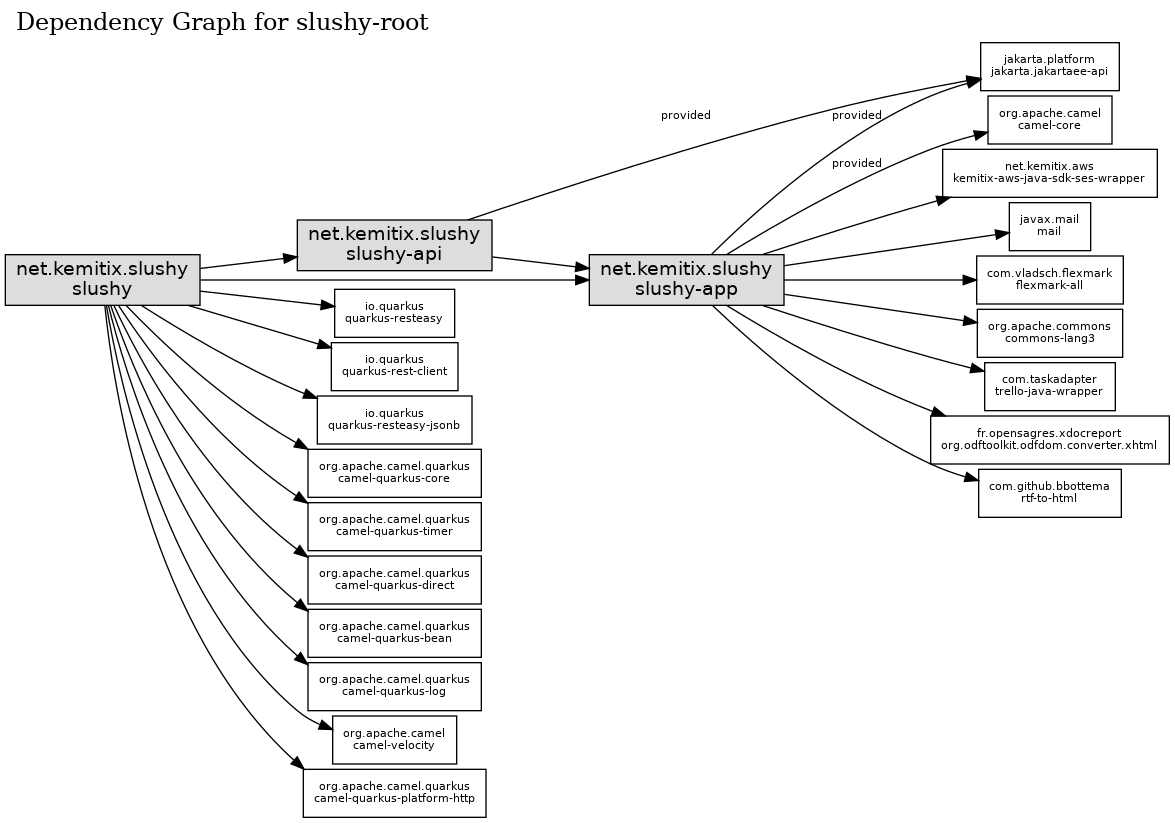
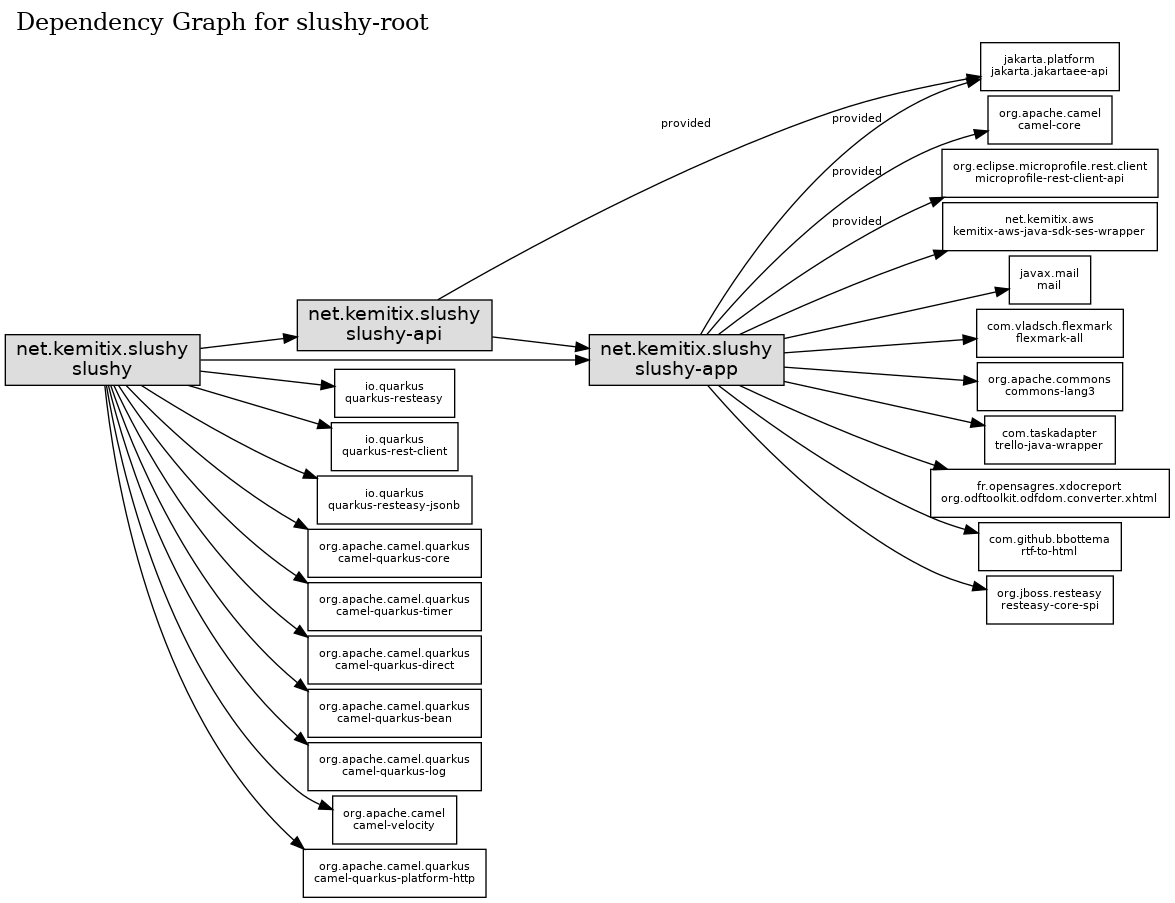
trello.webhook: register webhook with trello on startup

diff --git a/slushy-app/src/main/java/net/kemitix/slushy/app/trello/webhook/RegisterWebhook.java b/slushy-app/src/main/java/net/kemitix/slushy/app/trello/webhook/RegisterWebhook.java
@@ -1,0 +1,76 @@
+package net.kemitix.slushy.app.trello.webhook;
+
+import lombok.extern.java.Log;
+import net.kemitix.slushy.app.SlushyConfig;
+import net.kemitix.slushy.app.trello.TrelloBoard;
+import org.eclipse.microprofile.rest.client.inject.RestClient;
+
+import javax.enterprise.context.ApplicationScoped;
+import javax.inject.Inject;
+import javax.ws.rs.WebApplicationException;
+import javax.ws.rs.core.Response;
+
+@Log
+@ApplicationScoped
+public class RegisterWebhook {
+
+    private final SlushyConfig slushyConfig;
+    private final TrelloBoard trelloBoard;
+    @Inject
+    @RestClient
+    private TrelloWebhookService trelloWebhookService;
+
+    @Inject
+    public RegisterWebhook(
+            SlushyConfig slushyConfig,
+            TrelloBoard trelloBoard
+    ) {
+        this.slushyConfig = slushyConfig;
+        this.trelloBoard = trelloBoard;
+    }
+
+    //$.post("https://api.trello.com/1/tokens/{APIToken}/webhooks/?key={APIKey}", {
+    //  description: "My first webhook",
+    //  callbackURL: "http://www.mywebsite.com/trelloCallback",
+    //  idModel: "4d5ea62fd76aa1136000000c",
+    //});
+
+    //TODO https://quarkus.io/guides/rest-client
+    public void register() {
+        log.info("init()");
+
+        String apiKey = slushyConfig.getTrelloKey();
+        String apiToken = slushyConfig.getTrelloSecret();
+        String boardId = trelloBoard.getBoardId();
+        String callbackUrl = String.format(
+                "%s?source=trello;board=%s",
+                slushyConfig.getWebhook(),
+                boardId);
+
+        String description = "Slushy Webhook";
+        TrelloCallback callback = TrelloCallback.builder()
+                .description(description)
+                .callbackURL(callbackUrl)
+                .idModel(boardId)
+                .build();
+        log.info(callback.toString());
+        try {
+            Response response = trelloWebhookService.registerWebhook(apiToken, apiKey, callback);
+            log.info(String.format(
+                    "Webhook Registered: (%d) %s - %s",
+                    response.getStatus(),
+                    response.getStatusInfo().getReasonPhrase(),
+                    response.getEntity()
+                    ));
+        } catch (WebApplicationException e) {
+            String message = e.getResponse().readEntity(String.class);
+            if ("A webhook with that callback, model, and token already exists".equals(message)) {
+                log.info(message);
+            } else {
+                throw new RuntimeException(
+                        "Unable to register webhook with Trello: " + message, e);
+            }
+        }
+    }
+
+}

diff --git a/slushy/src/main/java/net/kemitix/slushy/QuarkusSlushyConfig.java b/slushy/src/main/java/net/kemitix/slushy/QuarkusSlushyConfig.java
@@ -26,6 +26,7 @@ public class QuarkusSlushyConfig
     private String boardName = System.getenv("SLUSHY_BOARD");
     private String sender = System.getenv("SLUSHY_SENDER");
     private String reader = System.getenv("SLUSHY_READER");
+    private String webhook = System.getenv("SLUSHY_WEBHOOK");
 
     @Inject Instance<RetryConfig> retryConfigs;
 
@@ -37,6 +38,7 @@ public class QuarkusSlushyConfig
         log.info(String.format("SLUSHY_BOARD: %s", boardName));
         log.info(String.format("SLUSHY_SENDER: %s", sender));
         log.info(String.format("SLUSHY_READER: %s", reader));
+        log.info(String.format("SLUSHY_WEBHOOK: %s", webhook));
         retryConfigs.forEach(config ->
                 log.info(String.format(
                         "[%s] scan every %s; retry: %d times, every %s",

diff --git a/slushy-app/src/main/java/net/kemitix/slushy/app/trello/webhook/TrelloWebhookService.java b/slushy-app/src/main/java/net/kemitix/slushy/app/trello/webhook/TrelloWebhookService.java
@@ -1,0 +1,25 @@
+package net.kemitix.slushy.app.trello.webhook;
+
+import org.eclipse.microprofile.rest.client.inject.RegisterRestClient;
+import org.jboss.resteasy.annotations.jaxrs.PathParam;
+import org.jboss.resteasy.annotations.jaxrs.QueryParam;
+
+import javax.ws.rs.Consumes;
+import javax.ws.rs.POST;
+import javax.ws.rs.Path;
+import javax.ws.rs.core.MediaType;
+import javax.ws.rs.core.Response;
+
+@Path("/1")
+@RegisterRestClient(configKey = "trello")
+public interface TrelloWebhookService {
+
+    @POST
+    @Path("/tokens/{token}/webhooks/")
+    @Consumes(MediaType.APPLICATION_JSON)
+    Response registerWebhook(
+            @PathParam("token") String token,
+            @QueryParam("key") String key,
+            TrelloCallback trelloCallback);
+
+}

diff --git a/slushy-app/src/main/java/net/kemitix/slushy/app/trello/webhook/RegisterWebhookRoute.java b/slushy-app/src/main/java/net/kemitix/slushy/app/trello/webhook/RegisterWebhookRoute.java
@@ -1,0 +1,27 @@
+package net.kemitix.slushy.app.trello.webhook;
+
+import org.apache.camel.builder.RouteBuilder;
+
+import javax.enterprise.context.ApplicationScoped;
+import javax.inject.Inject;
+
+@ApplicationScoped
+public class RegisterWebhookRoute
+        extends RouteBuilder {
+
+    private final RegisterWebhook registerWebhook;
+
+    @Inject
+    public RegisterWebhookRoute(RegisterWebhook registerWebhook) {
+        this.registerWebhook = registerWebhook;
+    }
+
+    @Override
+    public void configure() {
+        from("timer:trello-webhook?repeatCount=1")
+                .routeId("trello-webhook")
+                .bean(registerWebhook)
+        ;
+    }
+
+}

diff --git a/slushy-app/src/main/java/net/kemitix/slushy/app/trello/webhook/TrelloCallback.java b/slushy-app/src/main/java/net/kemitix/slushy/app/trello/webhook/TrelloCallback.java
@@ -1,0 +1,19 @@
+package net.kemitix.slushy.app.trello.webhook;
+
+import lombok.AccessLevel;
+import lombok.AllArgsConstructor;
+import lombok.Builder;
+import lombok.Getter;
+import lombok.ToString;
+
+@ToString
+@Getter
+@Builder
+@AllArgsConstructor(access = AccessLevel.PRIVATE)
+public class TrelloCallback {
+
+    private final String description;
+    private final String callbackURL;
+    private final String idModel;
+
+}

diff --git a/slushy-app/src/main/java/net/kemitix/slushy/app/SlushyConfig.java b/slushy-app/src/main/java/net/kemitix/slushy/app/SlushyConfig.java
@@ -40,4 +40,9 @@ public interface SlushyConfig {
      */
     String getReader();
 
+    /**
+     * The URL of the Webhook to register with services.
+     */
+    String getWebhook();
+
 }
